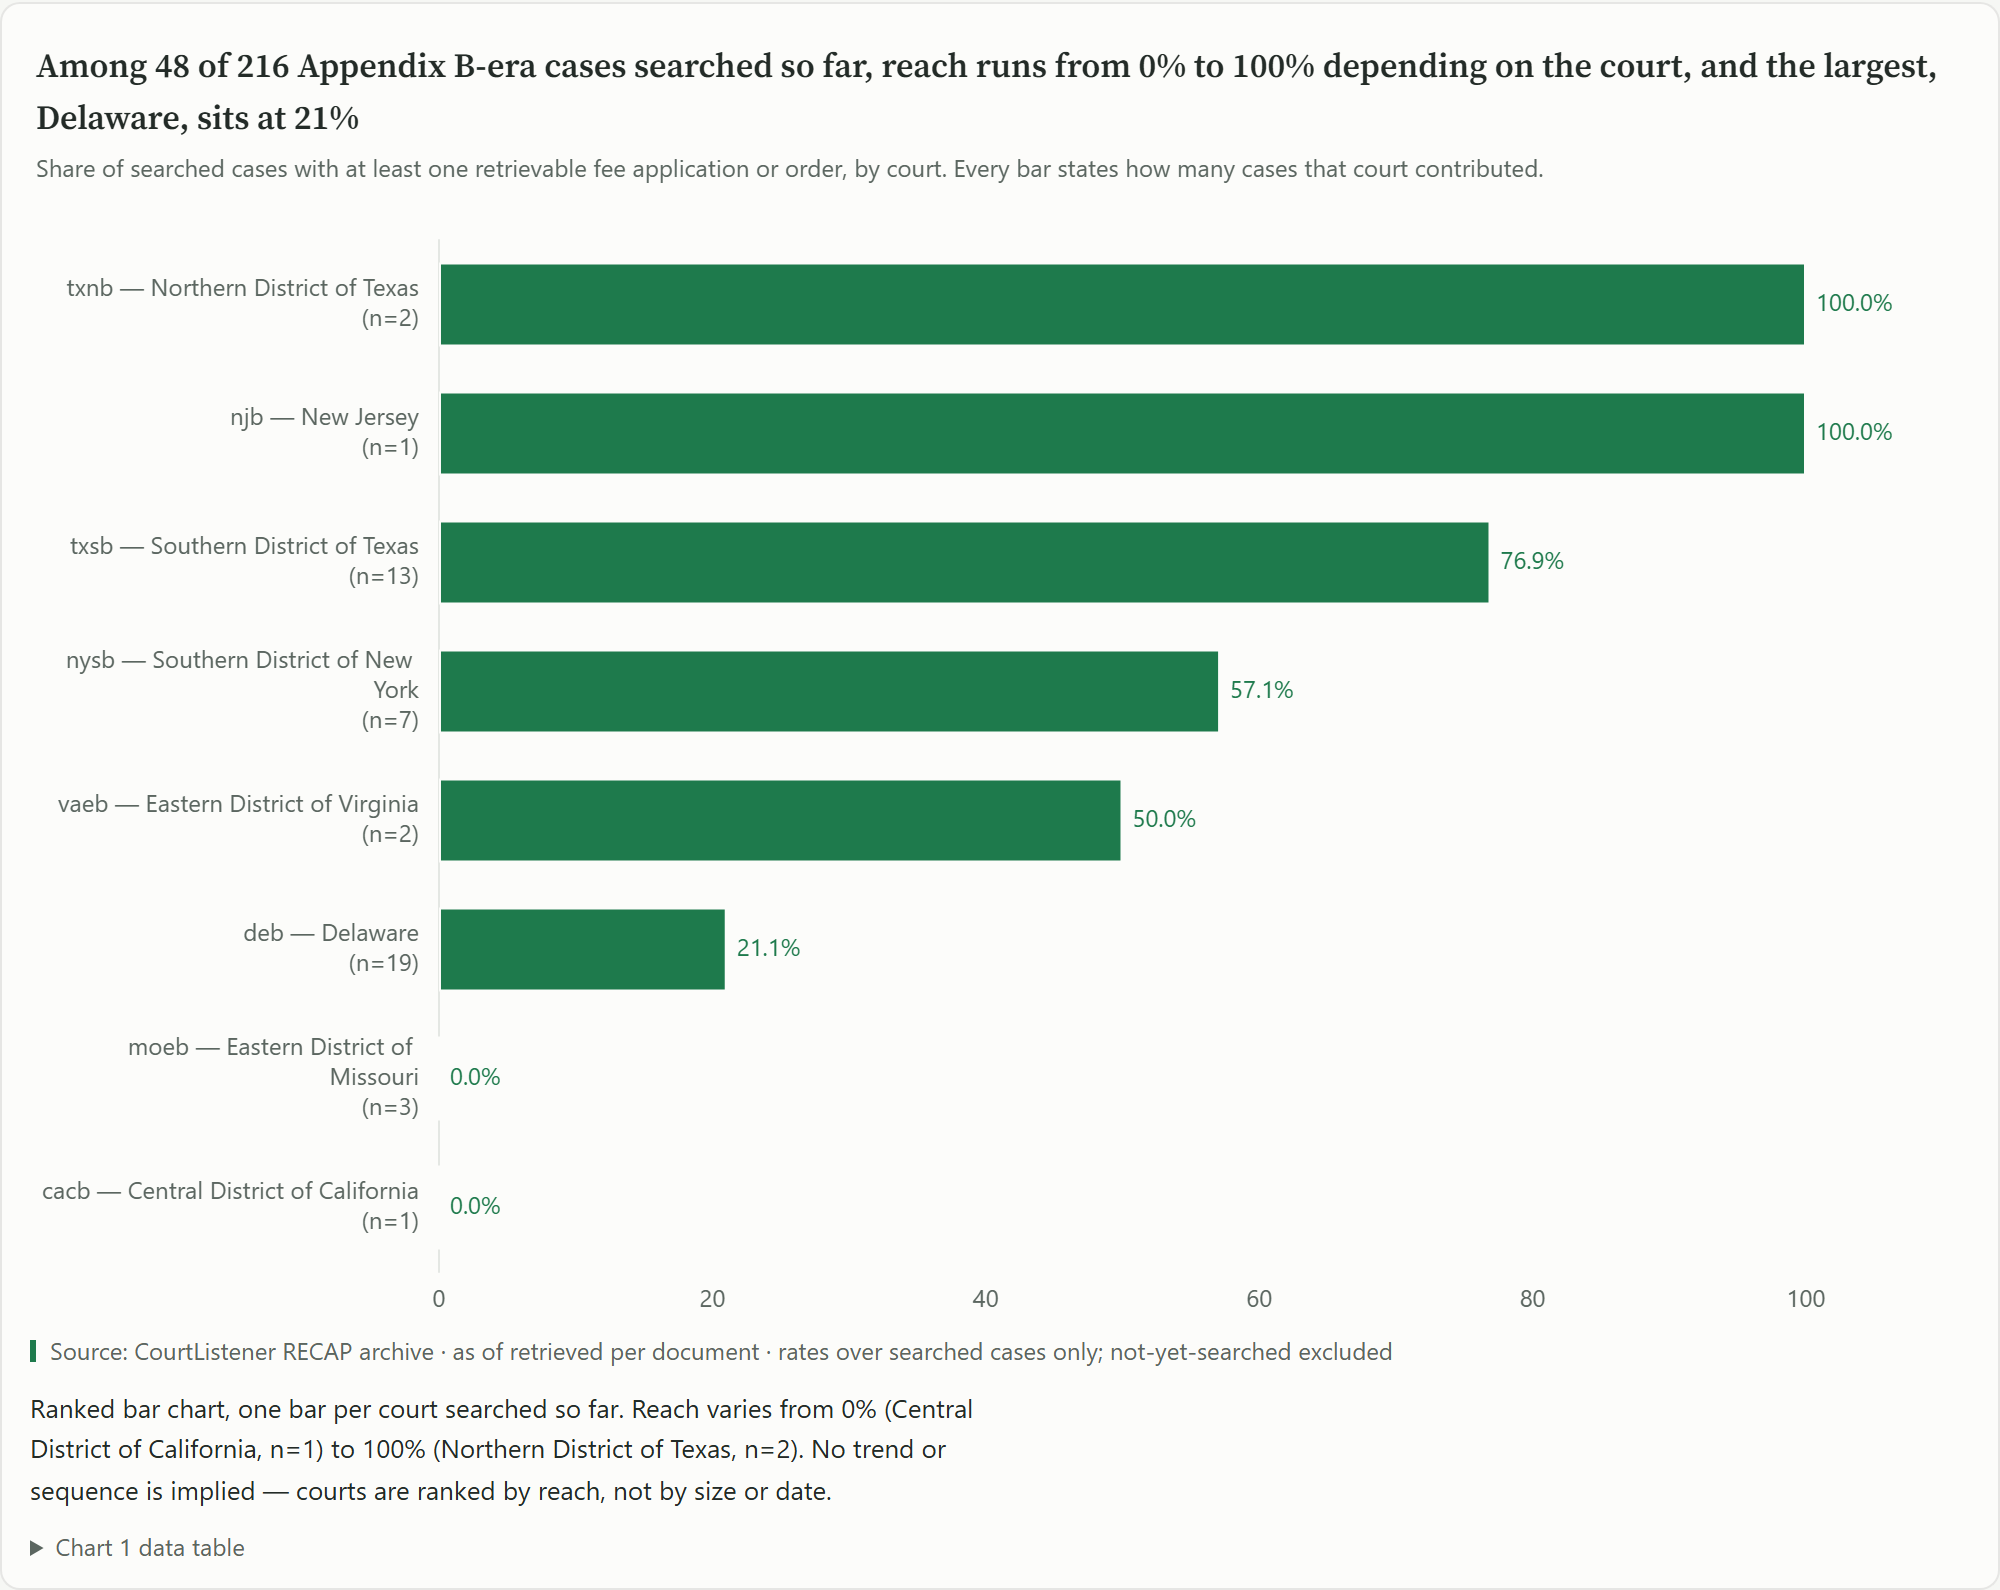
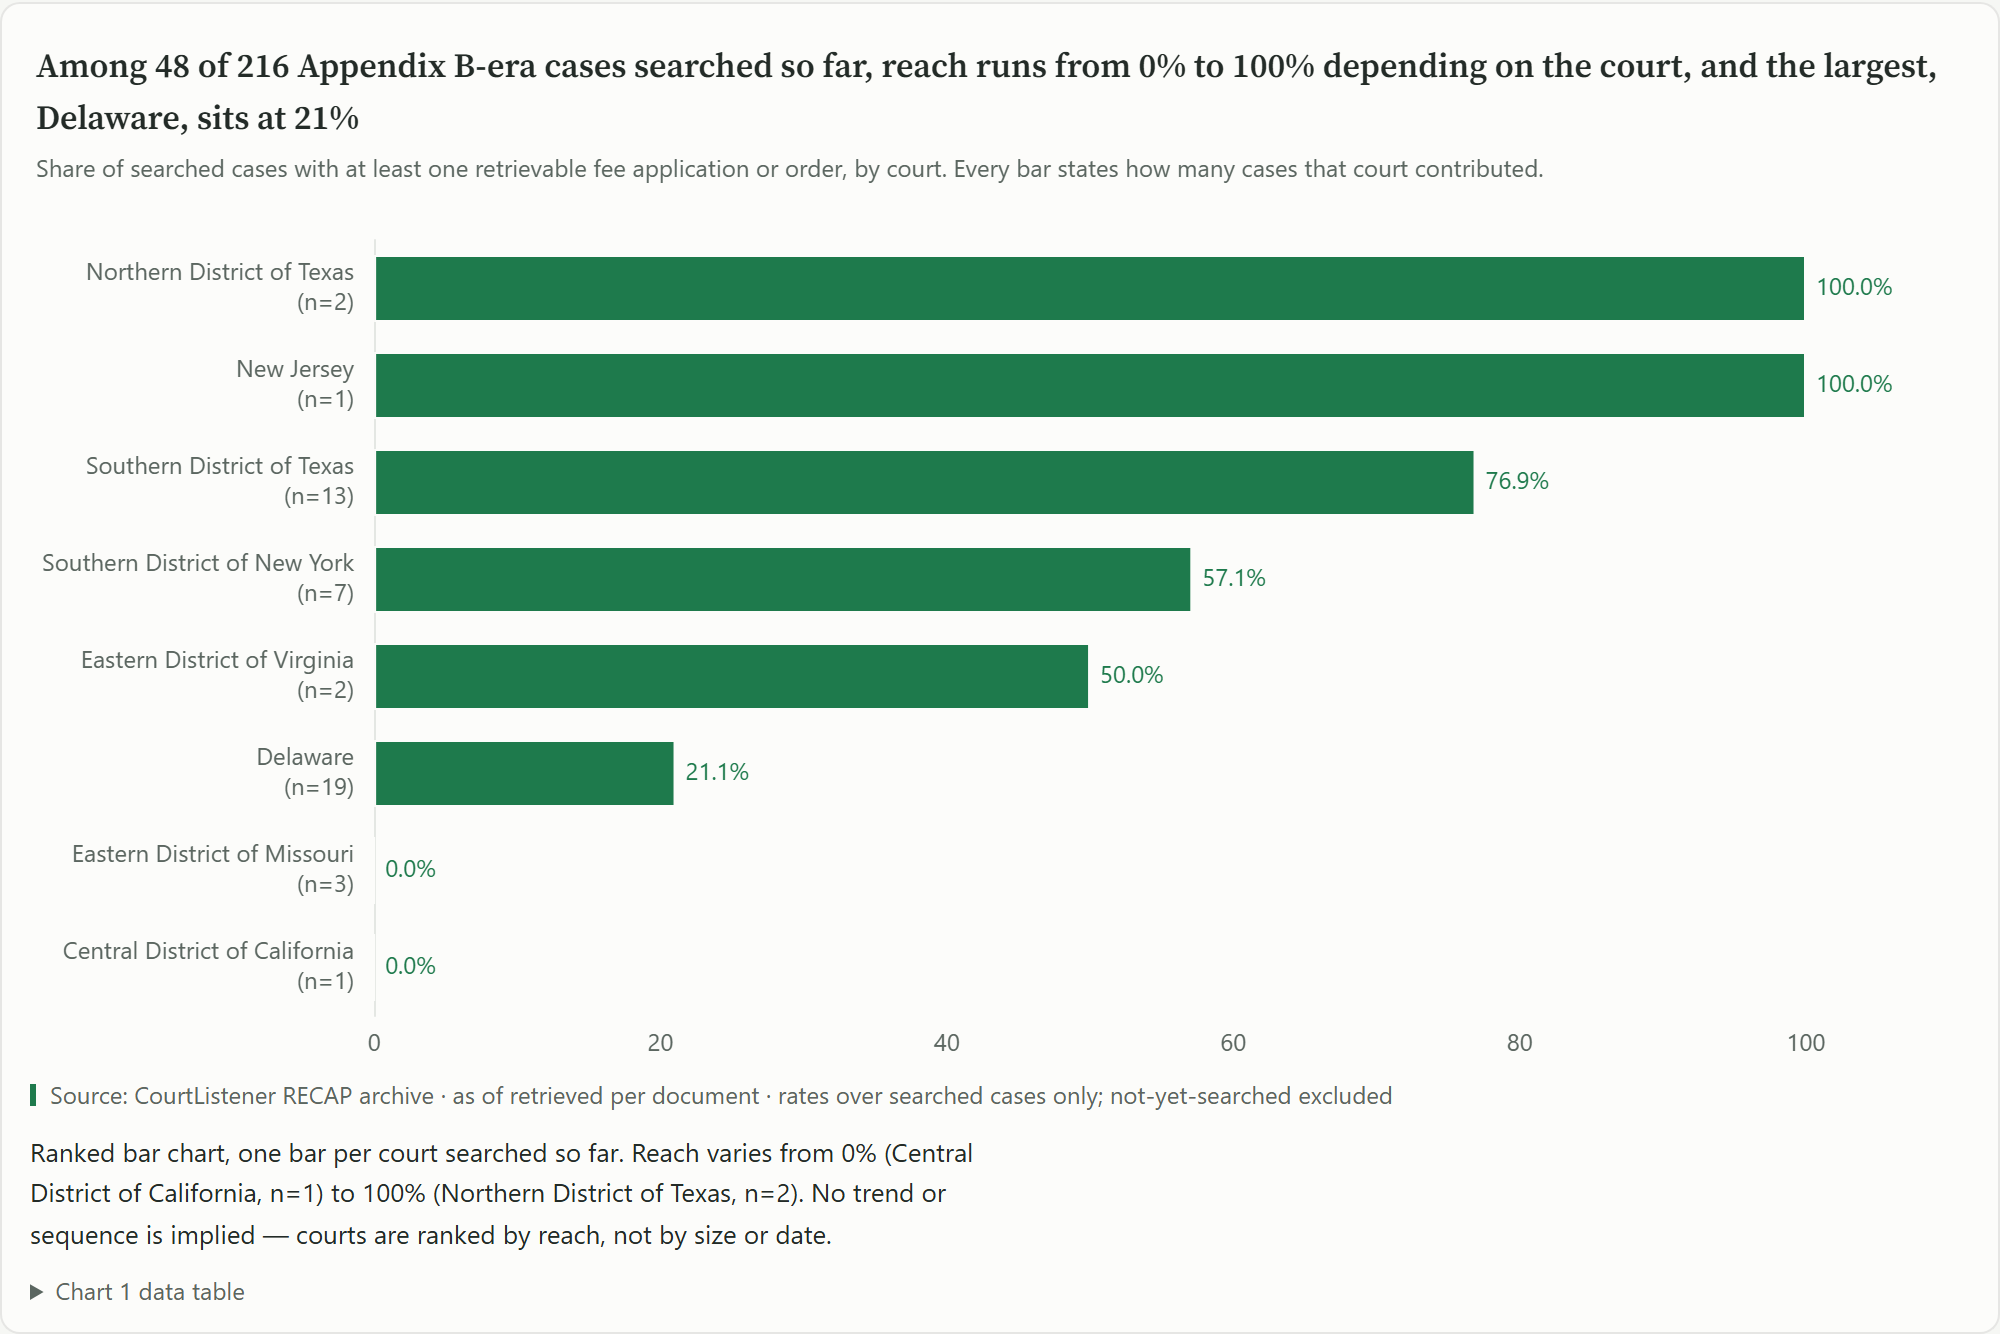
Round 3: drop the court code from Chart 1, name only
Aaron, after round 2's fix (every court named, code kept alongside):
"get rid of the txnb, njb labels entirely. Just have the name of the
court." Chart 1's row label is now courtName alone; court remains the
join key in the underlying data (dim_court.csv, the data table), this is
a display-label change only.

governance/chart-review.md's Verdict records both rounds of Aaron's direct
review and the explicit go-live instruction that follows this commit:
"Make that update, then publish."

Changed region(s): [[0.0, 0.0307, 0.961, 0.7684], [0.0, 0.7991, 0.682, 0.9835]]

diff --git a/docs/assets/page.js b/docs/assets/page.js
@@ -341,13 +341,13 @@
       'fee application or order, by court. Every bar states how many cases ' +
       'that court contributed.';
     barChart('c1', {
-      // FINDING #7 (one seat) named only "deb" as Delaware. Aaron's own
-      // direct read of that fix, round 2: naming Delaware alone left every
-      // other row an opaque code ("what is txnb vs txsb?"). Every court
-      // now carries its real name, from dim_court.csv via courtName below
-      // -- not a special case for the one court a seat happened to flag.
+      // FINDING #7 (one seat) named only "deb" as Delaware; round 2 named
+      // every court but kept the code alongside the name. Aaron, round 3:
+      // drop the code entirely, name only. The court_id is still the join
+      // key in the underlying data table -- this is a display-label change,
+      // not a data change.
       rows: rows.map(function (r) {
-        return { label: r.court + ' — ' + r.courtName, n: r.cases, value: r.reach };
+        return { label: r.courtName, n: r.cases, value: r.reach };
       }),
       // 100 is a true mathematical ceiling on a reach RATE (it cannot exceed
       // 100% by construction), not a guess at where this build's numbers

diff --git a/docs/index.html b/docs/index.html
@@ -294,6 +294,6 @@ layer retrieved per document, incomplete at 48 of 216 cases</p>
 
 </div>
 
-<script src="assets/page.js?v=f355c8a2e9"></script>
+<script src="assets/page.js?v=047b5c7e8d"></script>
 </body>
 </html>

diff --git a/governance/chart-review.md b/governance/chart-review.md
@@ -578,6 +578,31 @@ neither K5/K6/K7/K8 nor the `SystemExit` unsubstituted-token guard would
 have caught any of the specific defects fixed here either. `validate.py` and
 `validate_freeze.py` both pass against the updated `docs/` tree.
 
-**Not merged, not published, not deployed.** This file, and the fixes it
-records, sit on `build/fee-examiner-frontend`, unmerged, pending Aaron's own
-look at the rendering and his explicit instruction to go live.
+**Aaron read the rendering directly and gave two further rounds of notes,
+neither from the panel.** Round 2: Chart 1's court codes (only Delaware had
+been named) were unreadable to a reader who doesn't already know bankruptcy
+court abbreviations — every court now carries its real name, joined from a
+new `court_name` column on `data/reference/dim_court.csv`. Charts 2, 3 and 5
+scaled their axis to the full category/pair/application count rather than
+the tallest bar, leaving most of the plot empty — all three now scale to
+their own tallest bar plus headroom, the same discipline Chart 1 and Chart 4
+already used. Fixing that exposed a narrow-width tick-crowding defect no one
+had flagged, caught on the same by-eye inspection this file's §2 already
+argues for. Round 3: Aaron asked for the court **code** to be dropped from
+Chart 1 entirely, name only — done.
+
+**Aaron then said, in words: "Make that update, then publish."** That is
+the explicit go-live instruction this file and the relay brief both gated
+on — not inferred from a fix looking right, stated directly. This session
+is merging `build/fee-examiner-frontend` into `main` and pushing to `origin`
+as the direct result.
+
+**What "publish" does not yet reach.** B3 of the relay brief found no live
+trigger on this repo at all — no GitHub Pages, no CI workflow, no `gh-pages`
+branch, no deploy script (`gh api repos/RobbinsAnalytics/cascadia-fee-examiner/pages`
+returned 404). Merging and pushing puts the finished page on `main` at
+GitHub; it does not, by itself, make the page reachable at a URL, because no
+such mechanism has been provisioned. Standing up one (enabling Pages,
+choosing a domain, adding a workflow) is a separate infrastructure decision
+this session has not made and is flagging back to Aaron rather than
+assuming.
